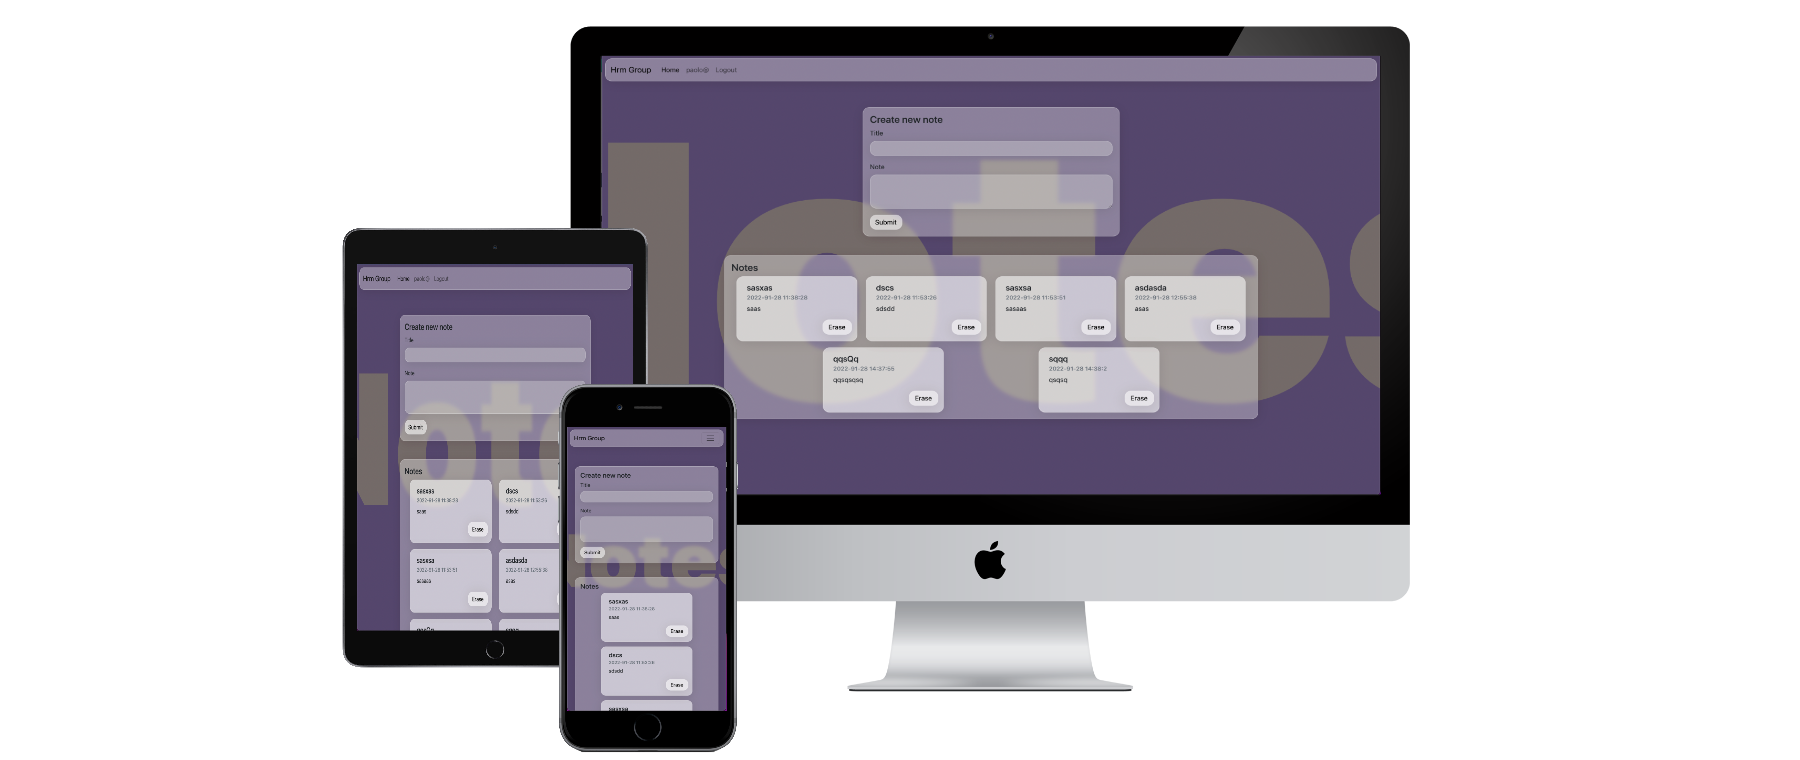
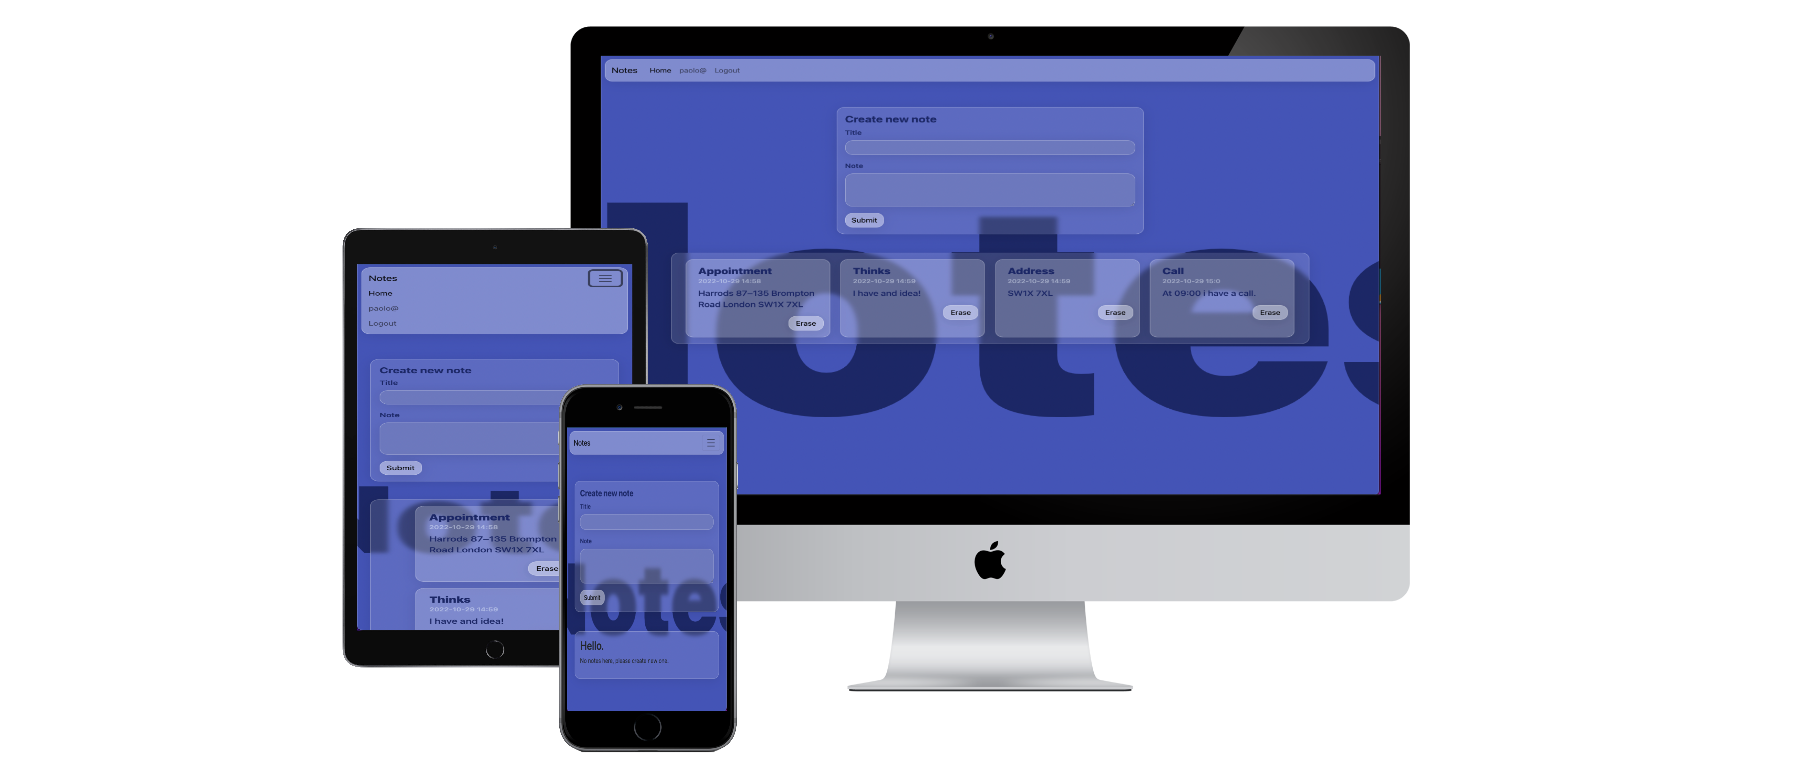
added sass library, pwa application, change mockup image for readme

diff --git a/client/src/style/app.scss b/client/src/style/app.scss
@@ -1,15 +1,18 @@
-
+@import url("https://fonts.googleapis.com/css2?family=Libre+Franklin:wght@300;400;500;600;700;800;900&display=swap");
+@import "variables";
 body {
+  font-family: "Libre Franklin", sans-serif;
   overflow: hidden;
-  background-color: rgba(0, 21, 156, 0.732);
+  font-size: 1rem;
+  background-color: $font-background-color;
 }
 .navbar {
   background: rgba(255, 255, 255, 0.32) !important;
   border-radius: 16px;
-  box-shadow: 0 4px 30px rgba(0, 0, 0, 0.1);
-  backdrop-filter: blur(5px);
+  box-shadow: $box-shadow;
+  backdrop-filter: $backdrop-filter;
   -webkit-backdrop-filter: blur(5px);
-  border: 1px solid rgba(255, 255, 255, 0.3);
+  border: $borders;
 }
 .card {
   background: rgba(255, 255, 255, 0.131);
@@ -53,38 +56,38 @@ span:hover {
   justify-content: center;
 }
 .font {
-  text-align: center;
   position: absolute;
+  padding-right: 50px;
   display: flex;
   justify-content: center;
-  font-size: 50vw;
+  font-size: 45vw;
   height: calc(100vh - 100px);
   overflow: hidden;
-  width: 100%;
+  width: 100vw;
   font-weight: 900;
-  color: #1c2765;
+  color: $main-text-color;
 }
 .create-note {
-  color: #1c2765;
+  color: $main-text-color;
   font-weight: 600;
 }
 .note {
   font-size: 1.2em;
-  color: #1c2765;
+  color: $main-text-color;
   font-weight: 500;
   background: rgba(255, 255, 255, 0.089);
 }
-h4{
+h4 {
   font-weight: 700;
 }
 .form-control:focus {
   background: rgba(255, 255, 255, 0.274) !important;
-  color: #1c2765 !important;
+  color: $main-text-color !important;
 }
-.card-subtitle{
+.card-subtitle {
   color: rgba(240, 248, 255, 0.437) !important;
 }
-.card-title{
+.card-title {
   font-size: 1.2em;
   font-weight: 800;
 }

diff --git a/client/public/index.html b/client/public/index.html
@@ -9,7 +9,7 @@
       name="description"
       content="Web site created using create-react-app"
     />
-    <link rel="preconnect"  rel="apple-touch-icon" href="%PUBLIC_URL%/logo192.png" />
+    <link rel="apple-touch-icon" href="%PUBLIC_URL%/logo192.png" />
      <link href="https://cdn.jsdelivr.net/npm/bootstrap@5.2.2/dist/css/bootstrap.min.css" rel="stylesheet" integrity="sha384-Zenh87qX5JnK2Jl0vWa8Ck2rdkQ2Bzep5IDxbcnCeuOxjzrPF/et3URy9Bv1WTRi" crossorigin="anonymous">
   </head>
     <!--
@@ -42,5 +42,19 @@
       To begin the development, run `npm start` or `yarn start`.
       To create a production bundle, use `npm run build` or `yarn build`.
     -->
+ <script>
+      if ("serviceWorker" in navigator) {
+        window.addEventListener("load", () => {
+          navigator.serviceWorker
+            .register("./serviceWorker.js")
+            .then((reg) => {
+              console.log("worker registration");
+            })
+            .catch((err) => {
+              console.log("error registering", err);
+            });
+        });
+      }
+    </script>
   </body>
 </html>

diff --git a/client/public/serviceWorker.js b/client/public/serviceWorker.js
@@ -1,0 +1,34 @@
+const CACHE_NAME = "version-1";
+const urlsToCache = ["index.html"];
+this.addEventListener("install", (e) => {
+  e.waitUntil(
+    caches.open(CACHE_NAME).then((cache) => {
+      console.log("opened cache");
+      return cache.addAll(urlsToCache);
+    })
+  );
+});
+
+this.addEventListener("fetch", (e) => {
+  e.respondWith(
+    caches.match(e.request).then((res) => {
+      return fetch(e.request).catch(() => caches.match("offline.html"));
+    })
+  );
+});
+
+this.addEventListener("activate", (e) => {
+  const cacheWhitelist = [];
+  cacheWhitelist.push(CACHE_NAME);
+  e.waitUntil(
+    caches.keys().then((cacheNames) =>
+      Promise.all(
+        cacheNames.map((cacheName) => {
+          if (!cacheWhitelist.includes(cacheName)) {
+            return caches.delete(cacheName);
+          }
+        })
+      )
+    )
+  );
+});

diff --git a/client/src/index.js b/client/src/index.js
@@ -4,7 +4,7 @@ import Home from "./pages/Home";
 import Register from "./pages/Register";
 import NoPage from "./pages/NoPage";
 import Login from "./pages/Login";
-import "./style/app.css";
+import "./style/app.scss";
 
 //i use react-router-dom for manage the navigation between pages
 const App = () => {

diff --git a/client/src/style/variables.scss b/client/src/style/variables.scss
@@ -1,0 +1,8 @@
+//colors
+$font-background-color: rgba(0, 21, 156, 0.732);
+$main-text-color: #1c2765;
+
+//style
+$borders: 1px solid rgba(255, 255, 255, 0.3);
+$box-shadow: 0 4px 30px rgba(0, 0, 0, 0.1);
+$backdrop-filter: blur(5px);
